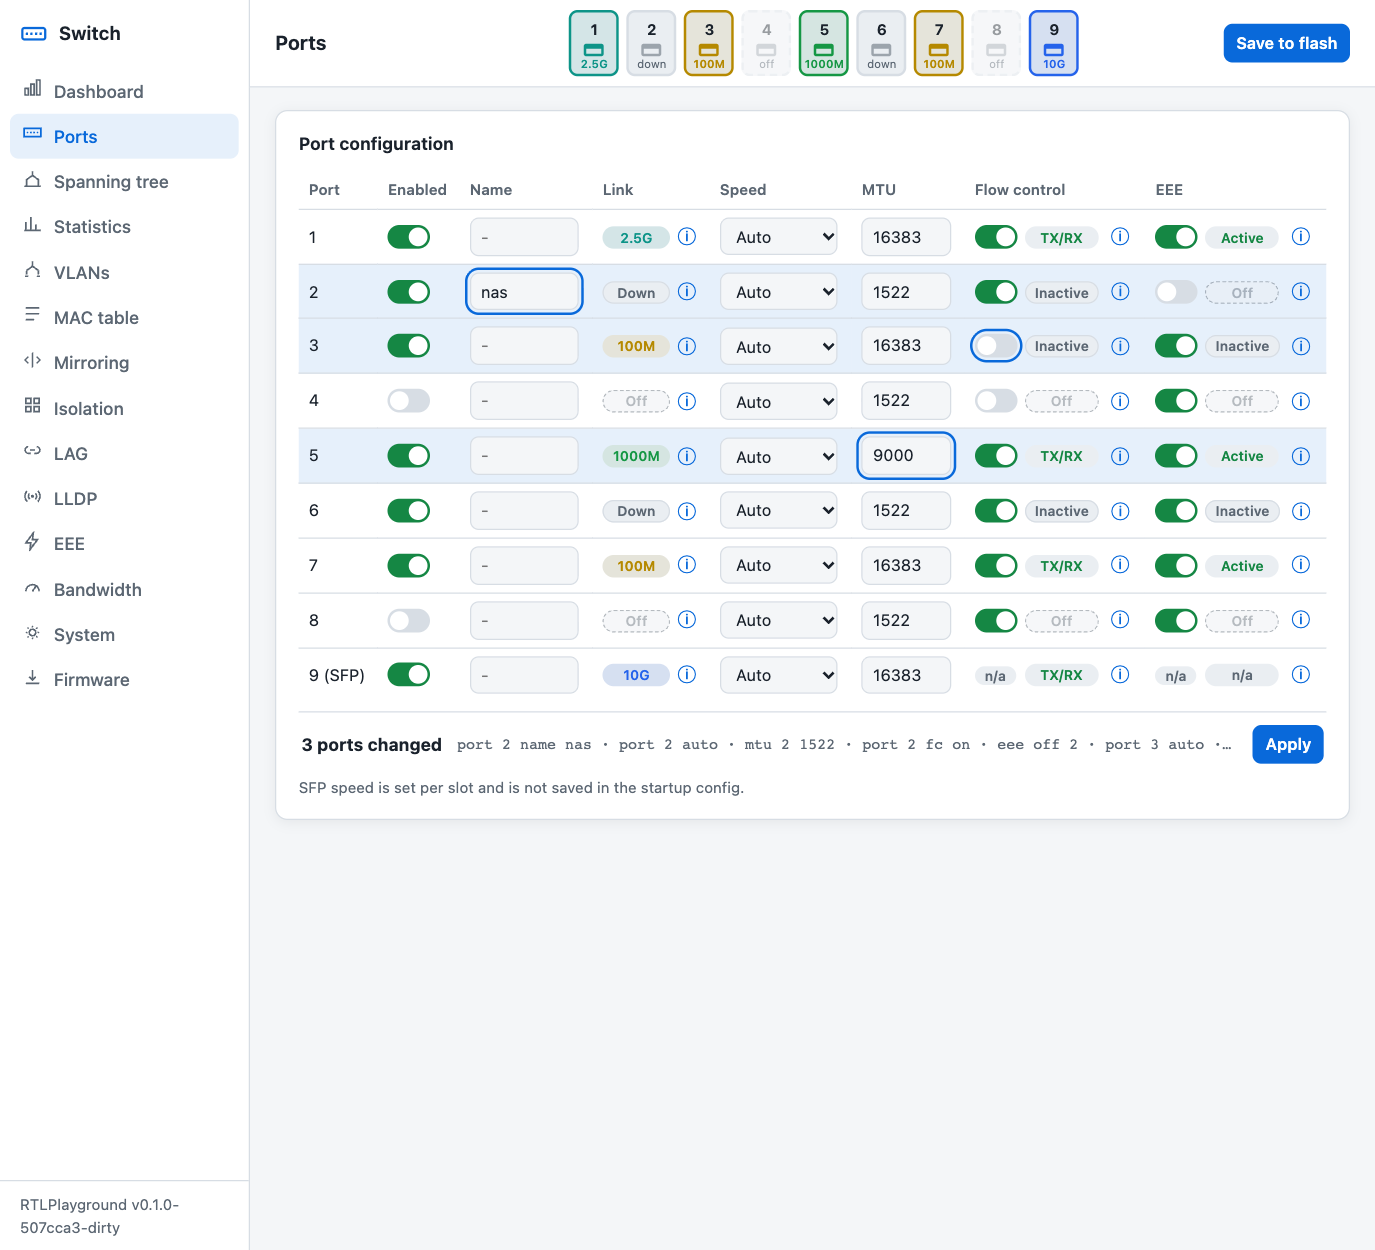
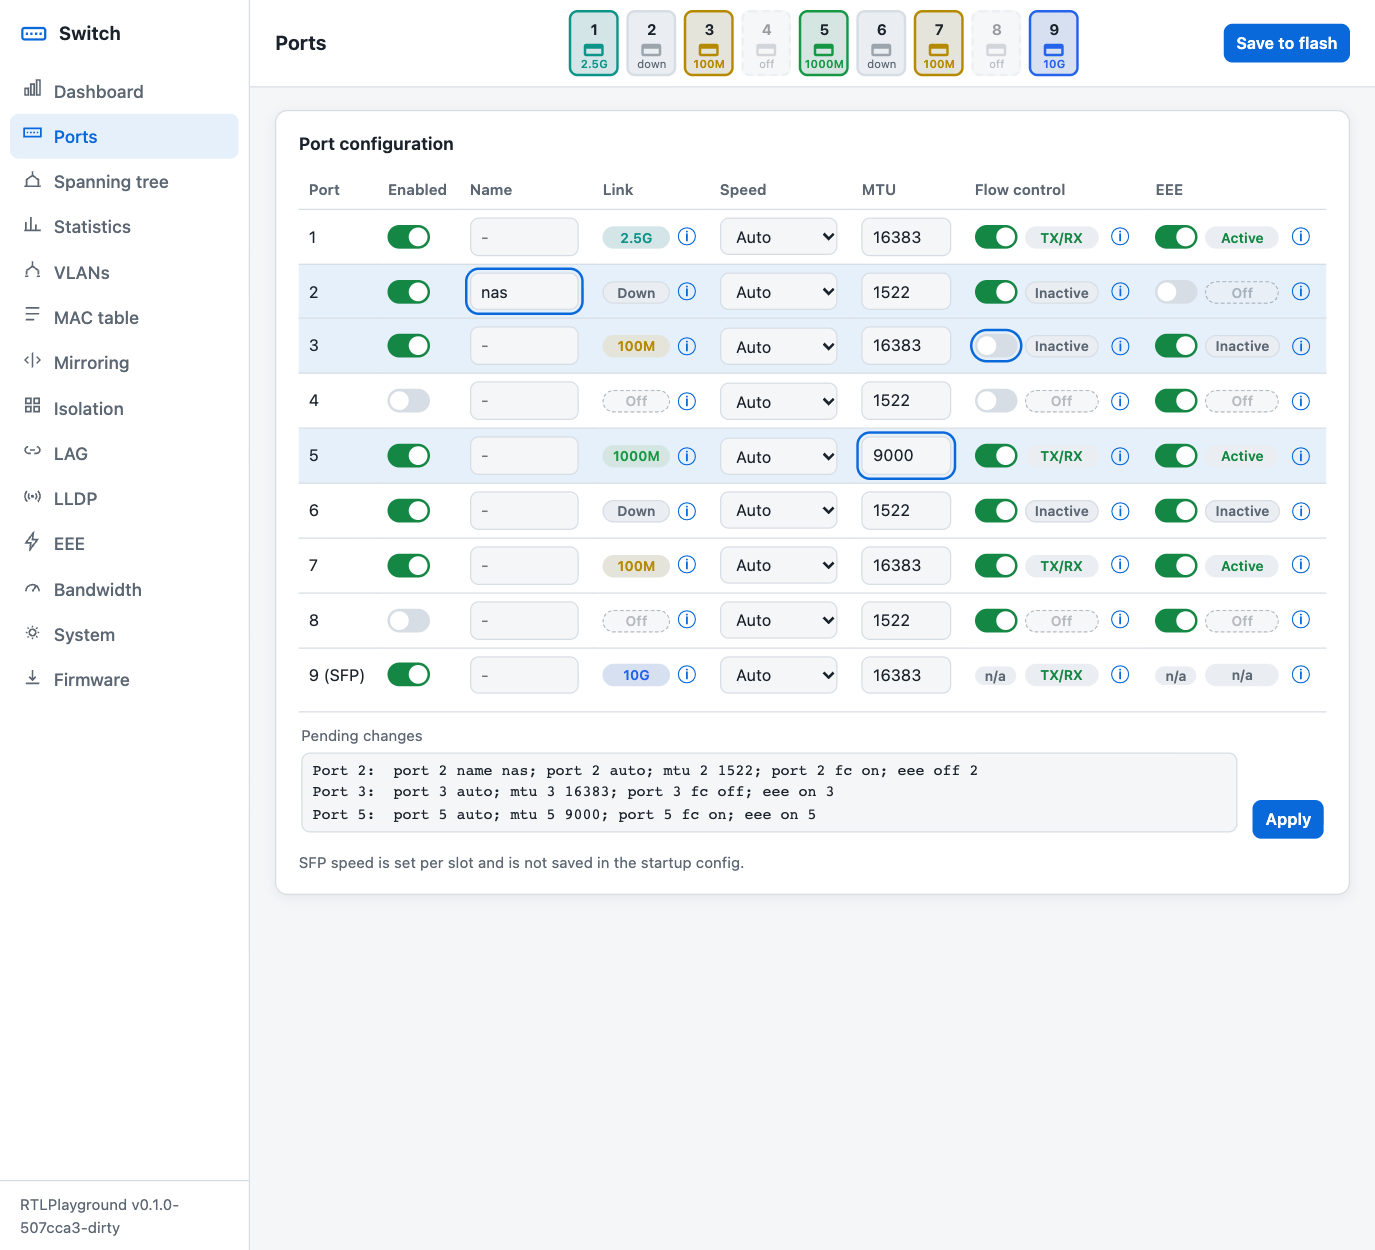
Mock-up J: per-port pending changes box, confirm before leaving with pending changes

diff --git a/html/mockup.js b/html/mockup.js
@@ -443,7 +443,7 @@ function jCmds(p,s){
   return c;
 }
 function jUpdate(){
-  var ports=0,cmds=[];
+  var ports=0,lines=[];
   J.rows.forEach(function(r,i){
     var a=J.orig[i],b=jRead(i),row=r.row,dirty=false;
     if(!a)return;
@@ -455,13 +455,28 @@ function jUpdate(){
     });
     row.style.background=dirty?"var(--sel)":"";
     if(r.apply)r.apply.disabled=!dirty;
-    if(dirty){ports++;cmds=cmds.concat(jCmds(S.ports[i],b))}
+    if(dirty){ports++;lines.push(t("c_port")+" "+S.ports[i].portNum+":  "+jCmds(S.ports[i],b).join("; "))}
   });
+  J.pending=ports;
   if(!$("jcount"))return;
-  $("jcount").textContent=ports?ports+" port"+(ports>1?"s":"")+" changed":"No changes";
-  $("jprev").textContent=cmds.join("  \u00b7  ");
+  // one line per changed port, in a read-only box that grows to 6 lines and then scrolls
+  var box=$("jprev");box.value=lines.join("\n");box.rows=Math.min(Math.max(lines.length,1),6);
+  box.style.display=ports?"":"none";
+  $("jcount").textContent=ports?"Pending changes":"No pending changes";
   $("japply").disabled=!ports;
 }
+// Leaving with pending changes: reload/close gets the browser's own prompt, switching tabs gets confirmModal
+window.addEventListener("beforeunload",function(e){if(J.pending){e.preventDefault();e.returnValue=""}});
+var _showTab=showTab;
+showTab=function(id){
+  if(curTab==="ports"&&id!=="ports"&&J.pending){
+    confirmModal("Leave the Ports page?",J.pending+" port"+(J.pending>1?"s have":" has")+" changes that were not applied. Leaving keeps the switch as it is and discards them.",function(){J.pending=0;_showTab(id)});
+    return;
+  }
+  _showTab(id);
+};
+VARIANTS.JDLEAVE=function(){VARIANTS.JD();setTimeout(function(){showTab("stats")},900)};
+VARIANTS.JMDLEAVE=function(){VARIANTS.JMD();setTimeout(function(){showTab("stats")},900)};
 // ROWAPPLY: an Apply button per row (enabled only while that port has changes) instead of the page-wide bar
 var ROWAPPLY=false;
 function rowApply(r){r.apply=h("button",{class:"ctl",text:t("c_apply")});return r.apply}
@@ -472,10 +487,12 @@ function evenSelects(){
   s.forEach(function(e){e.style.width=w+"px"});
 }
 function jBar(){
-  return h("div",{class:"mockx",style:"position:sticky;bottom:0;z-index:5;display:flex;gap:12px;align-items:center;background:var(--panel);border-top:1px solid var(--bd);padding:10px 2px 2px;margin-top:8px"},[
-    h("b",{id:"jcount",style:"white-space:nowrap",text:"No changes"}),
-    h("span",{id:"jprev",class:"mono mut",style:"flex:1;min-width:0;overflow:hidden;text-overflow:ellipsis;white-space:nowrap"}),
-    h("button",{class:"ctl pri",id:"japply",text:t("c_apply")})]);
+  return h("div",{class:"mockx",style:"position:sticky;bottom:0;z-index:5;background:var(--panel);border-top:1px solid var(--bd);padding:10px 2px 2px;margin-top:8px"},[
+    h("div",{style:"display:flex;gap:12px;align-items:flex-end"},[
+      h("div",{style:"flex:1;min-width:0"},[
+        h("div",{id:"jcount",class:"small mut",style:"margin-bottom:4px",text:"No pending changes"}),
+        h("textarea",{id:"jprev",class:"in mono",readonly:"",wrap:"off",style:"width:100%;box-sizing:border-box;resize:none;display:none"})]),
+      h("button",{class:"ctl pri",id:"japply",text:t("c_apply")})])]);
 }
 // Edits shown in the screenshots: port 2 renamed, port 3 flow control off, port 5 MTU 9000
 function jDemo(){
